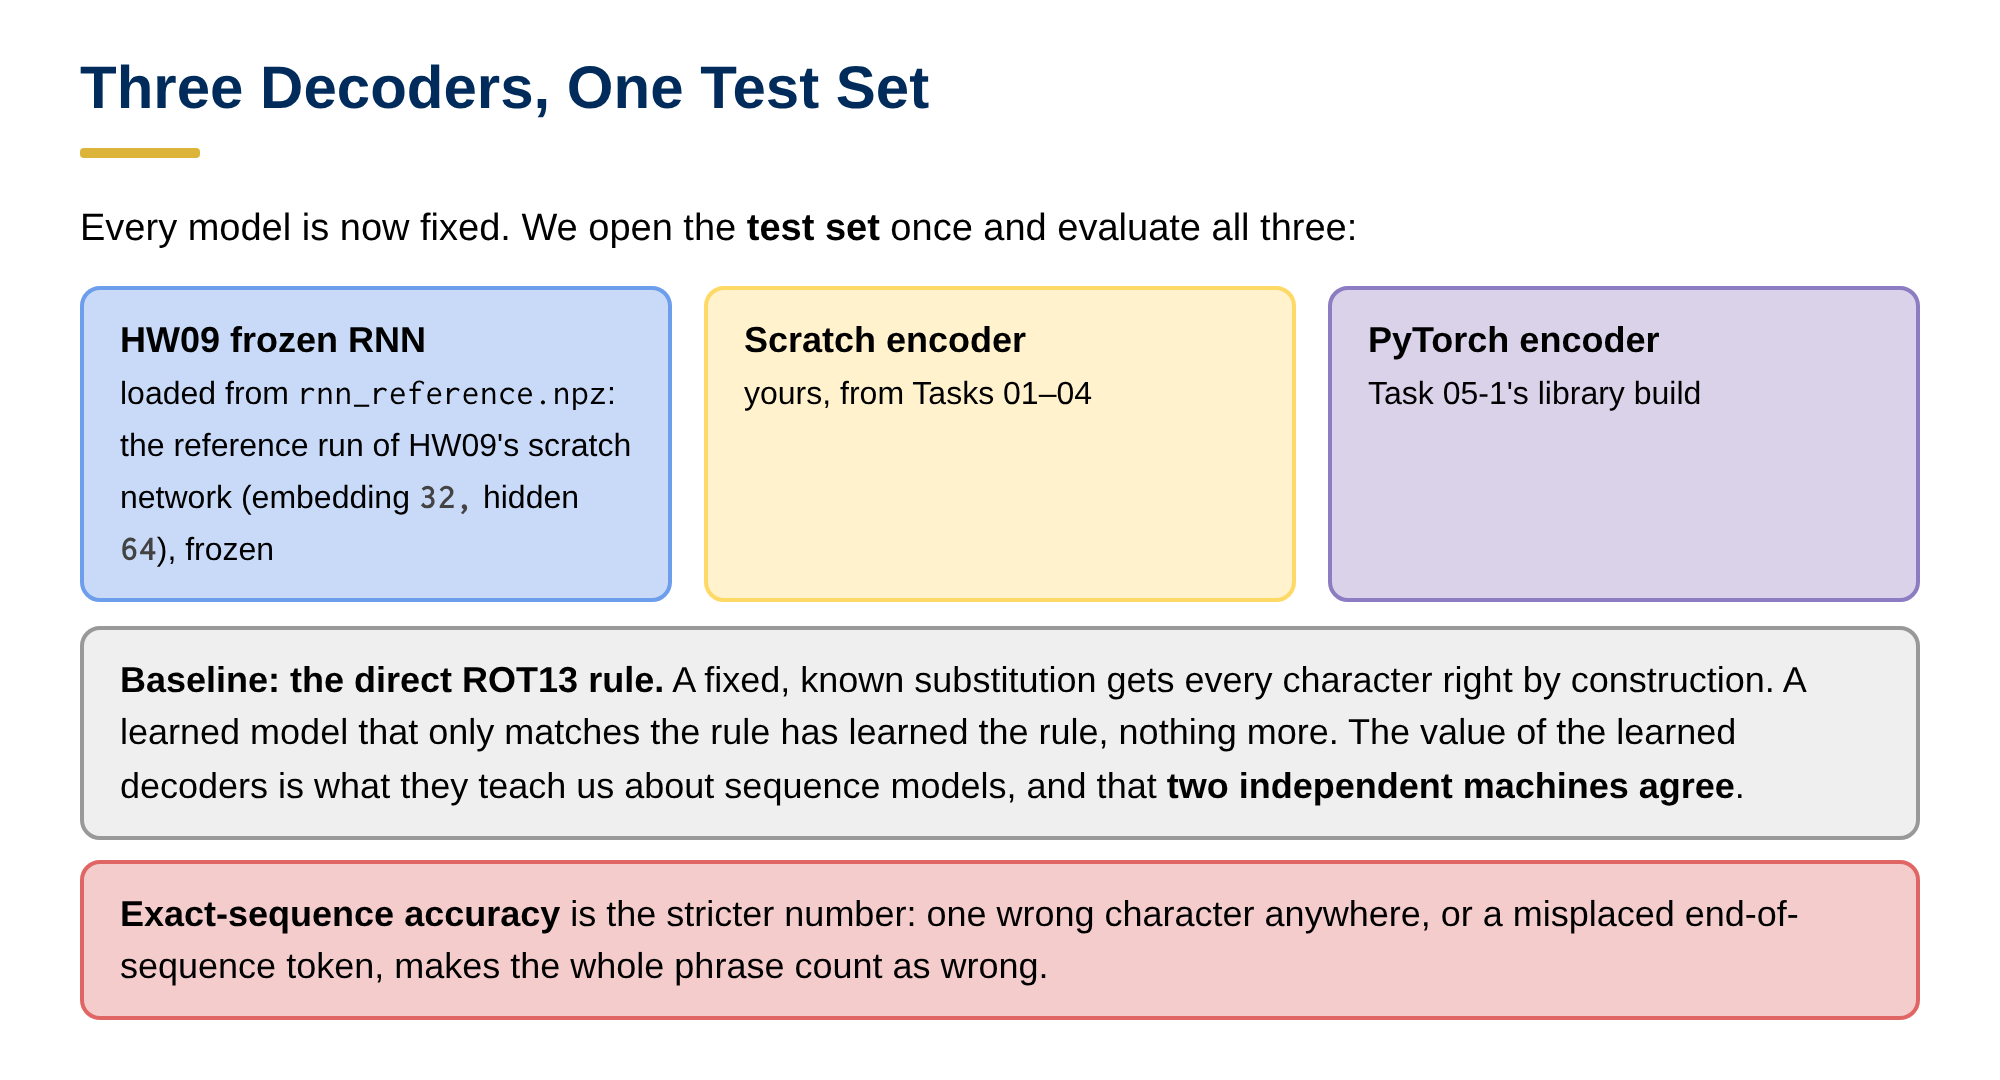
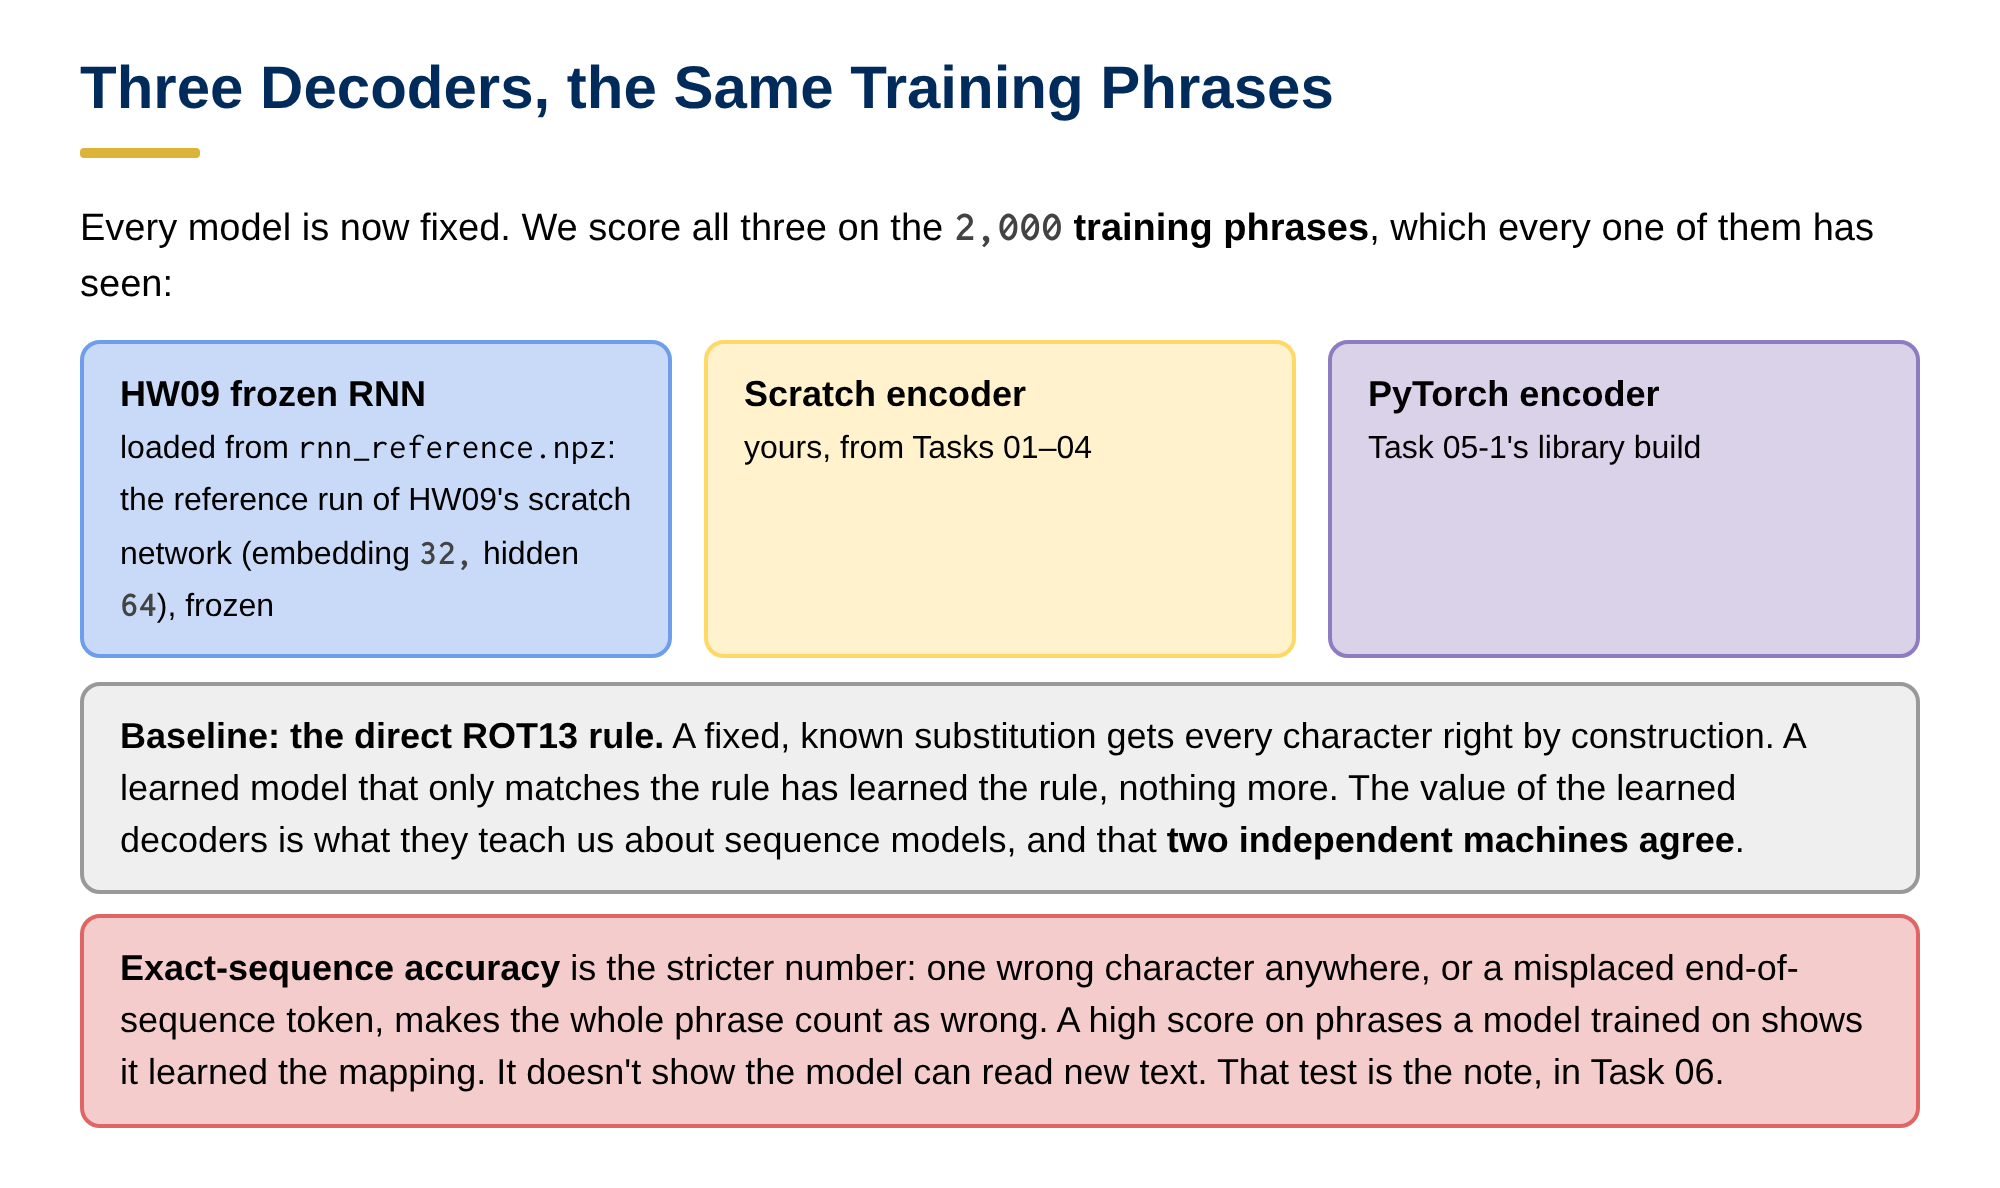
HW08-HW10: drop the validation and test splits
All three homeworks train on the 2,000 generated phrases only. The note is
the one check on text the networks never saw, as in Spring 2026.

HW08: Rot13Dataset builds one training set.
HW09: no validation print; Task 04 is reading the note with both networks;
the 04-2 written response is gone and its points move to 05-1.
HW10: fixed-epoch training with mean training loss, no checkpointing;
Task 05-2 scores the decoders on the training phrases, and 05-3 asks why
that table can't predict the note.

Claude-Session: https://claude.ai/code/session_01TFuZoGMK4Gqs8D5XhESC2d

Changed region(s): [[0.031, 0.55, 0.961, 0.9472], [0.031, 0.1833, 0.961, 0.5194], [0.031, 0.0306, 0.682, 0.1528]]

diff --git a/draft_tools/plates10.py b/draft_tools/plates10.py
@@ -360,14 +360,13 @@ def _():
     return title("The Same Training Loop as HW09") + f'''
 <div class="flow" style="margin-bottom:14px">{cyc}</div>
 <div class="row" style="margin-bottom:12px">
- <div class="card" style="margin:0"><h3>Settings</h3><span class="m">25</span> epochs at learning rate <span class="m">0.4</span>. After each epoch, evaluate on validation and keep the parameters with the <b>lowest validation loss</b>.
- <p style="font-size:16px;color:#444;margin:8px 0 0">Accuracy saturates at 100% after a dozen epochs, so it can't break ties; loss keeps measuring how confident the correct predictions are.</p></div>
+ <div class="card" style="margin:0"><h3>Settings</h3><span class="m">25</span> epochs at learning rate <span class="m">0.4</span>. After each epoch, the supplied code prints the <b>mean training loss</b> over the 32 batches.
+ <p style="font-size:16px;color:#444;margin:8px 0 0">There is no validation set to watch. As in HW09, the real test is reading the note in Task 06.</p></div>
  <div class="card" style="margin:0"><h3>What should happen?</h3>Untrained, the loss starts near <span class="m">log 41 ≈ 3.71</span>. ROT13 is a simple, consistent mapping, so it should drop <b>well below 1</b> within five epochs.
  <p style="font-size:16px;margin:8px 0 0" class="r">Stalls near 3.7, or turns <span class="code">nan</span>? Recheck Tasks 01–03 before waiting out the run.</p></div>
 </div>
-<div class="callout ly fy"><b>Reading the attention.</b> The supplied plot shows both blocks' weights for one test phrase: row <span class="m">i</span> is output position <span class="m">i</span>, column <span class="m">j</span> is input position <span class="m">j</span>, darker means more weight.
+<div class="callout ly fy"><b>Reading the attention.</b> The supplied plot shows both blocks' weights for one phrase: row <span class="m">i</span> is output position <span class="m">i</span>, column <span class="m">j</span> is input position <span class="m">j</span>, darker means more weight.
 Each panel has its <b>own color scale</b>, and the printed largest and smallest weights next to uniform (<span class="m">1/T</span>) tell a real pattern from a nearly flat one.</div>
-<div class="callout lr fr" style="margin-bottom:0">The test set stays closed until Task 05.</div>
 '''
 
 
@@ -399,12 +398,13 @@ def _():
              ('Scratch encoder', 'yours, from Tasks 01–04', 'fy ly'),
              ('PyTorch encoder', 'Task 05-1\'s library build', 'fp lp')]
     html = ''.join(f'<div class="callout {c}" style="margin:0"><b>{n}</b><br><span style="font-size:16px">{d}</span></div>' for n, d, c in cards)
-    return title('Three Decoders, One Test Set') + f'''
-<p>Every model is now fixed. We open the <b>test set</b> once and evaluate all three:</p>
+    return title('Three Decoders, the Same Training Phrases') + f'''
+<p>Every model is now fixed. We score all three on the <b>2,000 training phrases</b>, which every one of them has seen:</p>
 <div class="row" style="margin-bottom:12px">{html}</div>
 <div class="callout lk fk"><b>Baseline: the direct ROT13 rule.</b> A fixed, known substitution gets every character right by construction.
 A learned model that only matches the rule has learned the rule, nothing more. The value of the learned decoders is what they teach us about sequence models, and that <b>two independent machines agree</b>.</div>
-<div class="callout lr fr" style="margin-bottom:0"><b>Exact-sequence accuracy</b> is the stricter number: one wrong character anywhere, or a misplaced end-of-sequence token, makes the whole phrase count as wrong.</div>
+<div class="callout lr fr" style="margin-bottom:0"><b>Exact-sequence accuracy</b> is the stricter number: one wrong character anywhere, or a misplaced end-of-sequence token, makes the whole phrase count as wrong.
+A high score on phrases a model trained on shows it learned the mapping. It doesn't show the model can read new text. That test is the note, in Task 06.</div>
 '''
 
 
@@ -464,15 +464,15 @@ SPEC = {
         ])],
     '### Task 04-1: Description': [
         (['The Same Training Loop as HW09', 'Worked Example: What Should Happen?', 'Reading the Attention'], [
-            ('plate_04-1_training_the_encoder', 'Training loop: forward, masked loss, backward, clipped SGD update. 25 epochs at learning rate 0.4, keeping the lowest validation loss. Loss starts near log 41 = 3.71 and should fall well below 1 within five epochs. The attention plot shows each block on its own color scale.'),
+            ('plate_04-1_training_the_encoder', 'Training loop: forward, masked loss, backward, clipped SGD update. 25 epochs at learning rate 0.4, printing the mean training loss. Loss starts near log 41 = 3.71 and should fall well below 1 within five epochs. The attention plot shows each block on its own color scale.'),
         ])],
     '### Task 05-1: Description': [
         (["PyTorch's Transformer Encoder"], [
             ('plate_05-1_pytorch_encoder', 'nn.TransformerEncoderLayer adds multiple heads, layer normalization, biases, FFN width 48 with ReLU, dropout 0. Use batch_first=True and src_key_padding_mask = (tokens == PAD). Trained with Adam at 0.003 for 15 epochs. Not a controlled comparison.'),
         ])],
     '### Task 05-2: Description': [
-        (['Three Decoders, One Test Set'], [
-            ('plate_05-2_three_decoders', 'Three decoders on the test set: the frozen HW09 RNN, the scratch encoder and the PyTorch encoder, with the direct ROT13 rule as a baseline. Exact-sequence accuracy counts a phrase wrong if any character is wrong.'),
+        (['Three Decoders, the Same Training Phrases'], [
+            ('plate_05-2_three_decoders', 'Three decoders scored on the training phrases: the frozen HW09 RNN, the scratch encoder and the PyTorch encoder, with the direct ROT13 rule as a baseline. Exact-sequence accuracy counts a phrase wrong if any character is wrong. Reading new text is tested by the note in Task 06.'),
         ])],
     '### Task 06-1: Description': [
         (['The Rule Itself', 'Worked Example'], [

diff --git a/draft_tools/plates09.py b/draft_tools/plates09.py
@@ -221,7 +221,7 @@ def _():
  <div class="card" style="margin:0"><h3>Progress reports</h3><span class="code">train</span> prints five times (epochs 1, 13, 25, 37 and 49), each with the network's current reading of the note. Exact numbers depend on the random starting weights.</div>
 </div>
 <div style="display:grid;grid-template-columns:1fr 1fr 1fr;gap:12px">{rows}</div>
-<div class="callout ly fy" style="margin-bottom:0;margin-top:14px"><b>Training accuracy isn't the whole story.</b> The supplied code also reports accuracy on the 200 validation phrases, which training never sees.</div>
+<div class="callout ly fy" style="margin-bottom:0;margin-top:14px"><b>Watch the note.</b> Every progress report includes the network's reading of the note, which it never trains on. That reading is the real test.</div>
 '''
 
 
@@ -310,10 +310,7 @@ SPEC = {'### Task 01-1: Description (0 pts.)': [(['(already applied: plates were
                                             'The same training loop in PyTorch: zero_grad, forward, flatten, CrossEntropyLoss with '
                                             'ignore_index, backward, Adam step.')])],
  '### Task 04-1: Description (0 pts.)': [(['(already applied: plates were wired into the notebooks directly)'],
-                                          [('plate_04-1a_two_accuracies',
-                                            'Token accuracy versus exact-phrase accuracy: one wrong character in 30 is 97% by tokens but a '
-                                            'complete miss by phrases. Evaluate on the test set once.'),
-                                           ('plate_04-1b_how_the_network_reads',
+                                          [('plate_04-1b_how_the_network_reads',
                                             'Greedy decoding: encode the note, one forward pass, argmax at every position, stop at the '
                                             'first EOS; checked against codecs ROT13.')])]}
 

diff --git a/draft_tools/plates08.py b/draft_tools/plates08.py
@@ -420,7 +420,7 @@ def _():
 # ---------------------------------------------------------------- Task 02-2
 @plate('plate_02-2b_from_pairs_to_batches')
 def _():
-    flow = chain([("<span class='code'>datasets['train']</span><small>2,000 (source, target) pairs</small>", 'fk lk'),
+    flow = chain([("<span class='code'>dataset</span><small>2,000 (source, target) pairs</small>", 'fk lk'),
                   ('<span class="code">DataLoader</span><small>picks 64 pairs</small>', 'fb lb'),
                   ('<span class="code">dataset.collate</span><small>supplied</small>', 'fp lp'),
                   ('<span class="code">X, Y</span><small>(64, T) and (64, T, 41)</small>', 'fg lg')], size=16)

diff --git a/evidence/homework09/README.md b/evidence/homework09/README.md
@@ -1,3 +1,3 @@
 # Shared cipher evidence
 
-`cipher_note.txt` is the forensics lab's checked transcription of the note, still encoded with ROT13; it is never a training sample. HW08–10 generate their training, validation and test phrases in the notebook (NLTK `words`, seeds 1/2/3, 2,000 / 200 / 200 phrases), so the splits are the same in all three. This is a position-aligned ROT13 exercise, not a general cipher solver. Digits are preserved by ROT13. Physical finale details remain subject to instructor confirmation.
+`cipher_note.txt` is the forensics lab's checked transcription of the note, still encoded with ROT13; it is never a training sample. HW08–10 generate their 2,000 training phrases in the notebook (NLTK `words`, seed 1), so the phrases are the same in all three. There are no validation or test splits: the note is the only text the networks read that they never trained on. This is a position-aligned ROT13 exercise, not a general cipher solver. Digits are preserved by ROT13. Physical finale details remain subject to instructor confirmation.

diff --git a/evidence/homework10/README.md b/evidence/homework10/README.md
@@ -1,3 +1,3 @@
 # Shared cipher evidence
 
-`cipher_note.txt` is the forensics lab's checked transcription of the note, still encoded with ROT13; it is never a training sample. HW08–10 generate their training, validation and test phrases in the notebook (NLTK `words`, seeds 1/2/3, 2,000 / 200 / 200 phrases), so the splits are the same in all three. This is a position-aligned ROT13 exercise, not a general cipher solver. Digits are preserved by ROT13. Physical finale details remain subject to instructor confirmation.
+`cipher_note.txt` is the forensics lab's checked transcription of the note, still encoded with ROT13; it is never a training sample. HW08–10 generate their 2,000 training phrases in the notebook (NLTK `words`, seed 1), so the phrases are the same in all three. There are no validation or test splits: the note is the only text the networks read that they never trained on. This is a position-aligned ROT13 exercise, not a general cipher solver. Digits are preserved by ROT13. Physical finale details remain subject to instructor confirmation.
